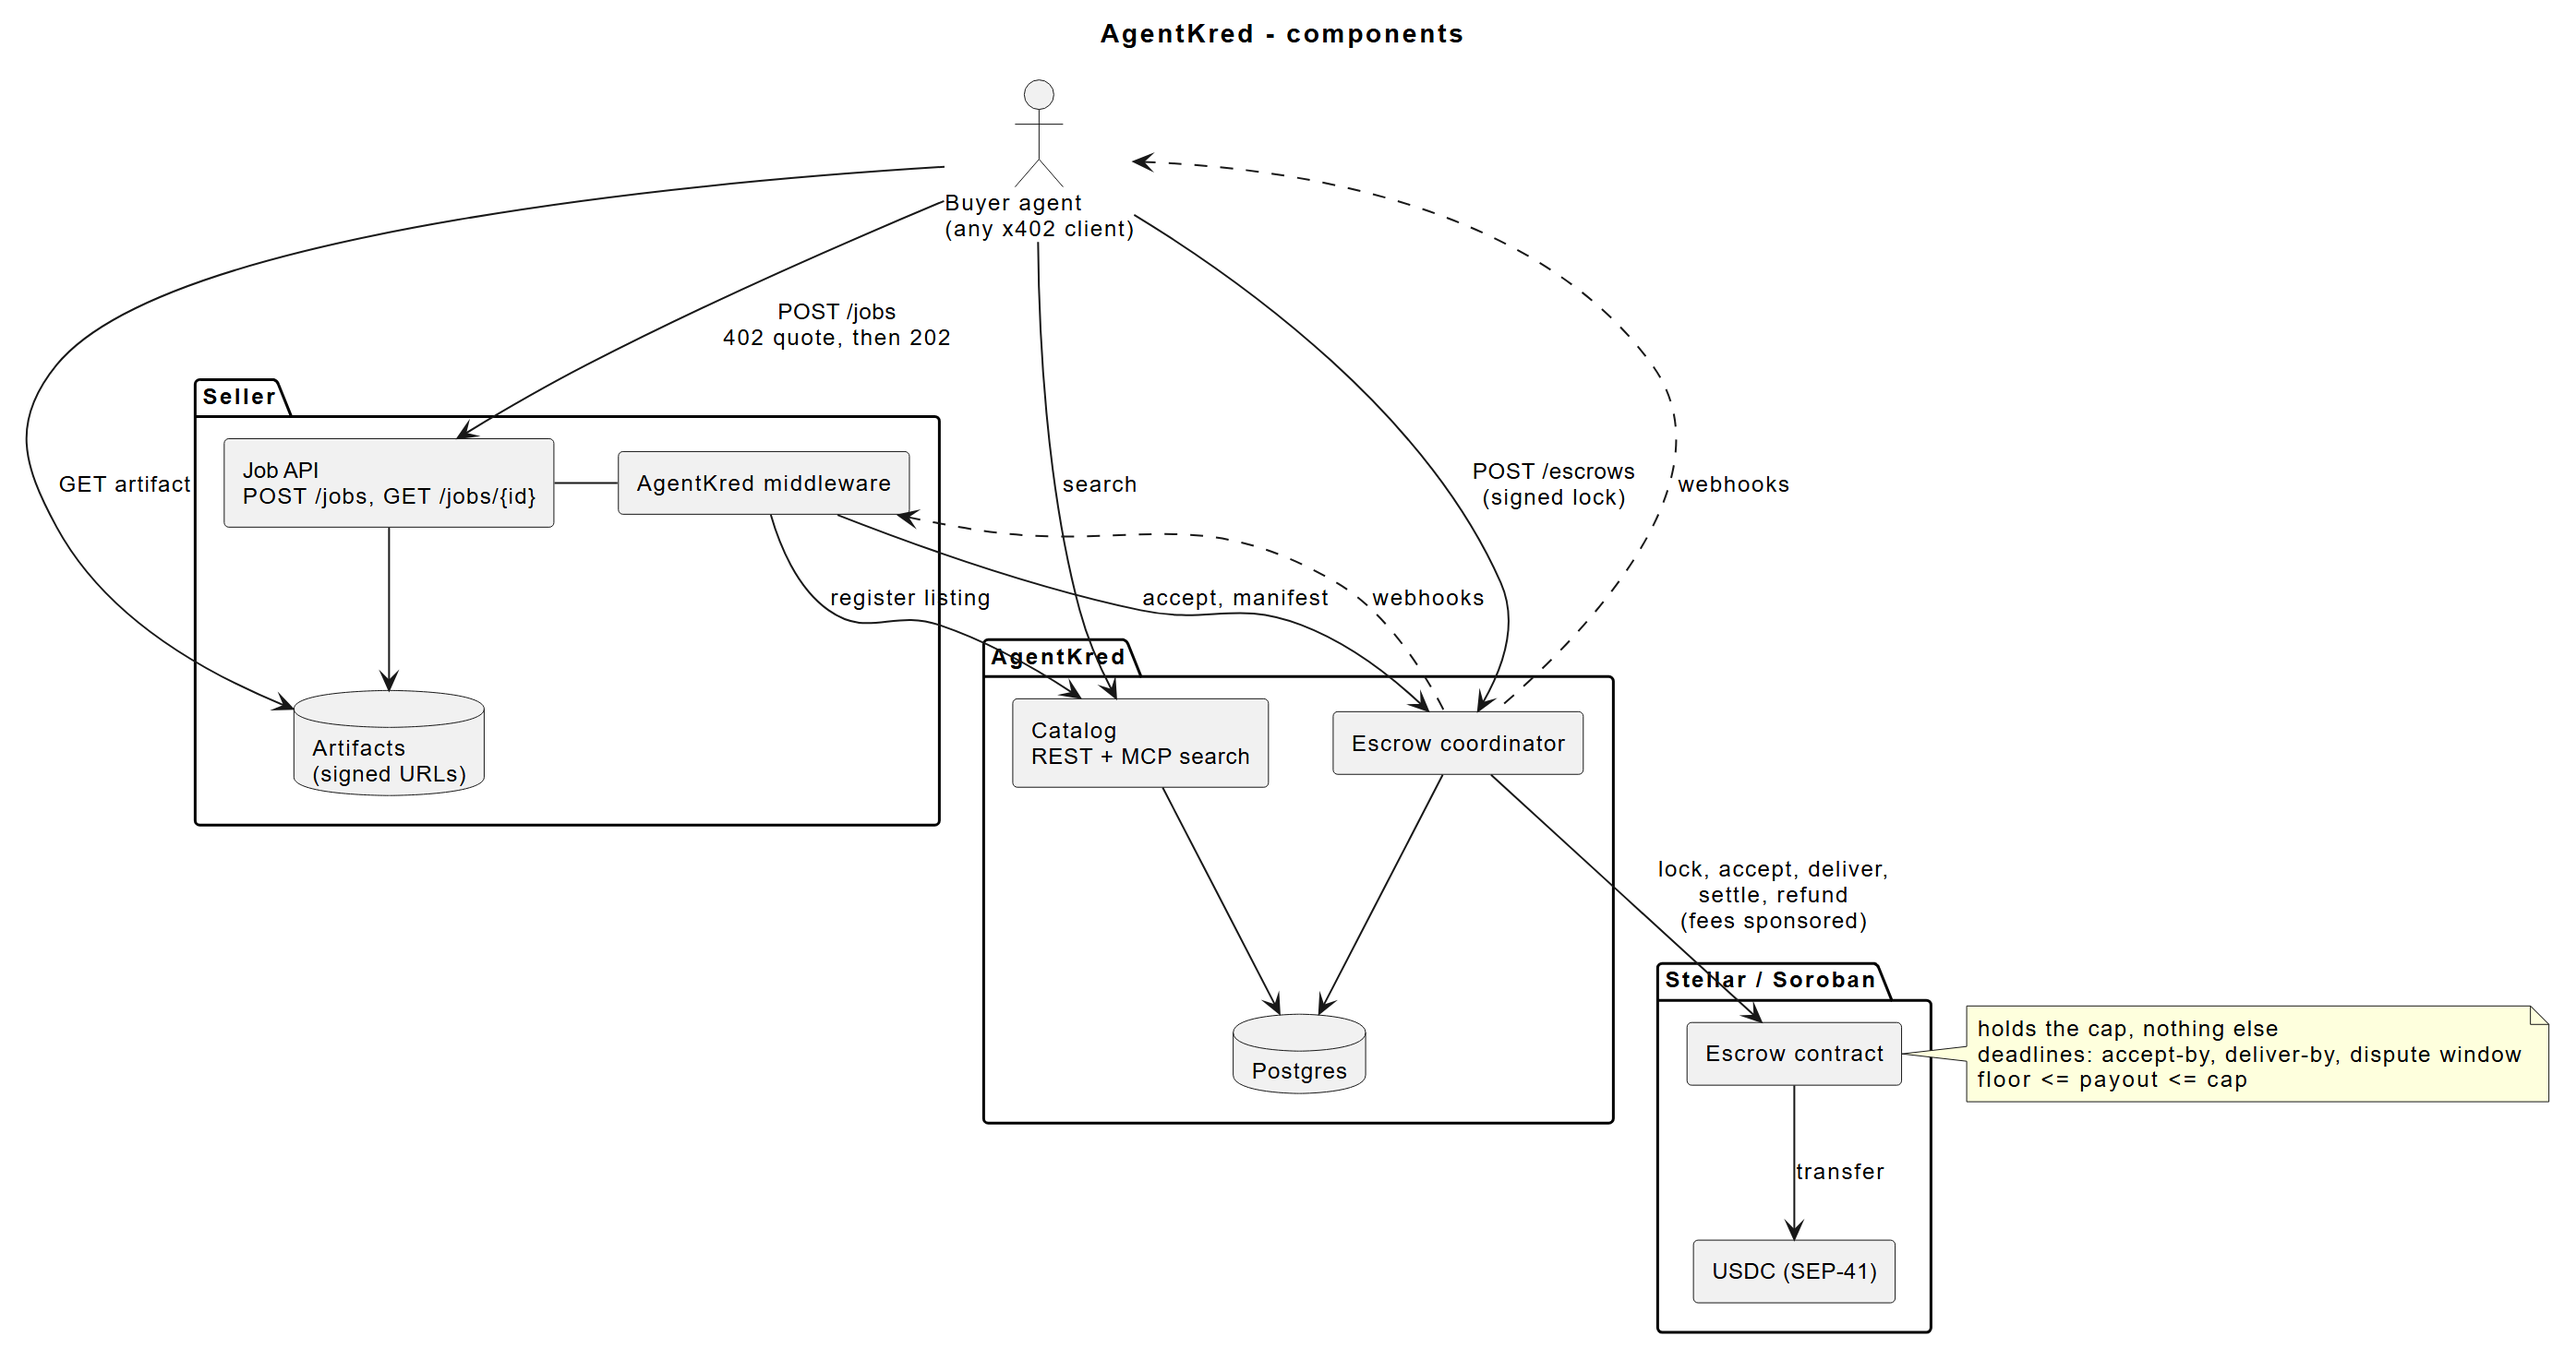
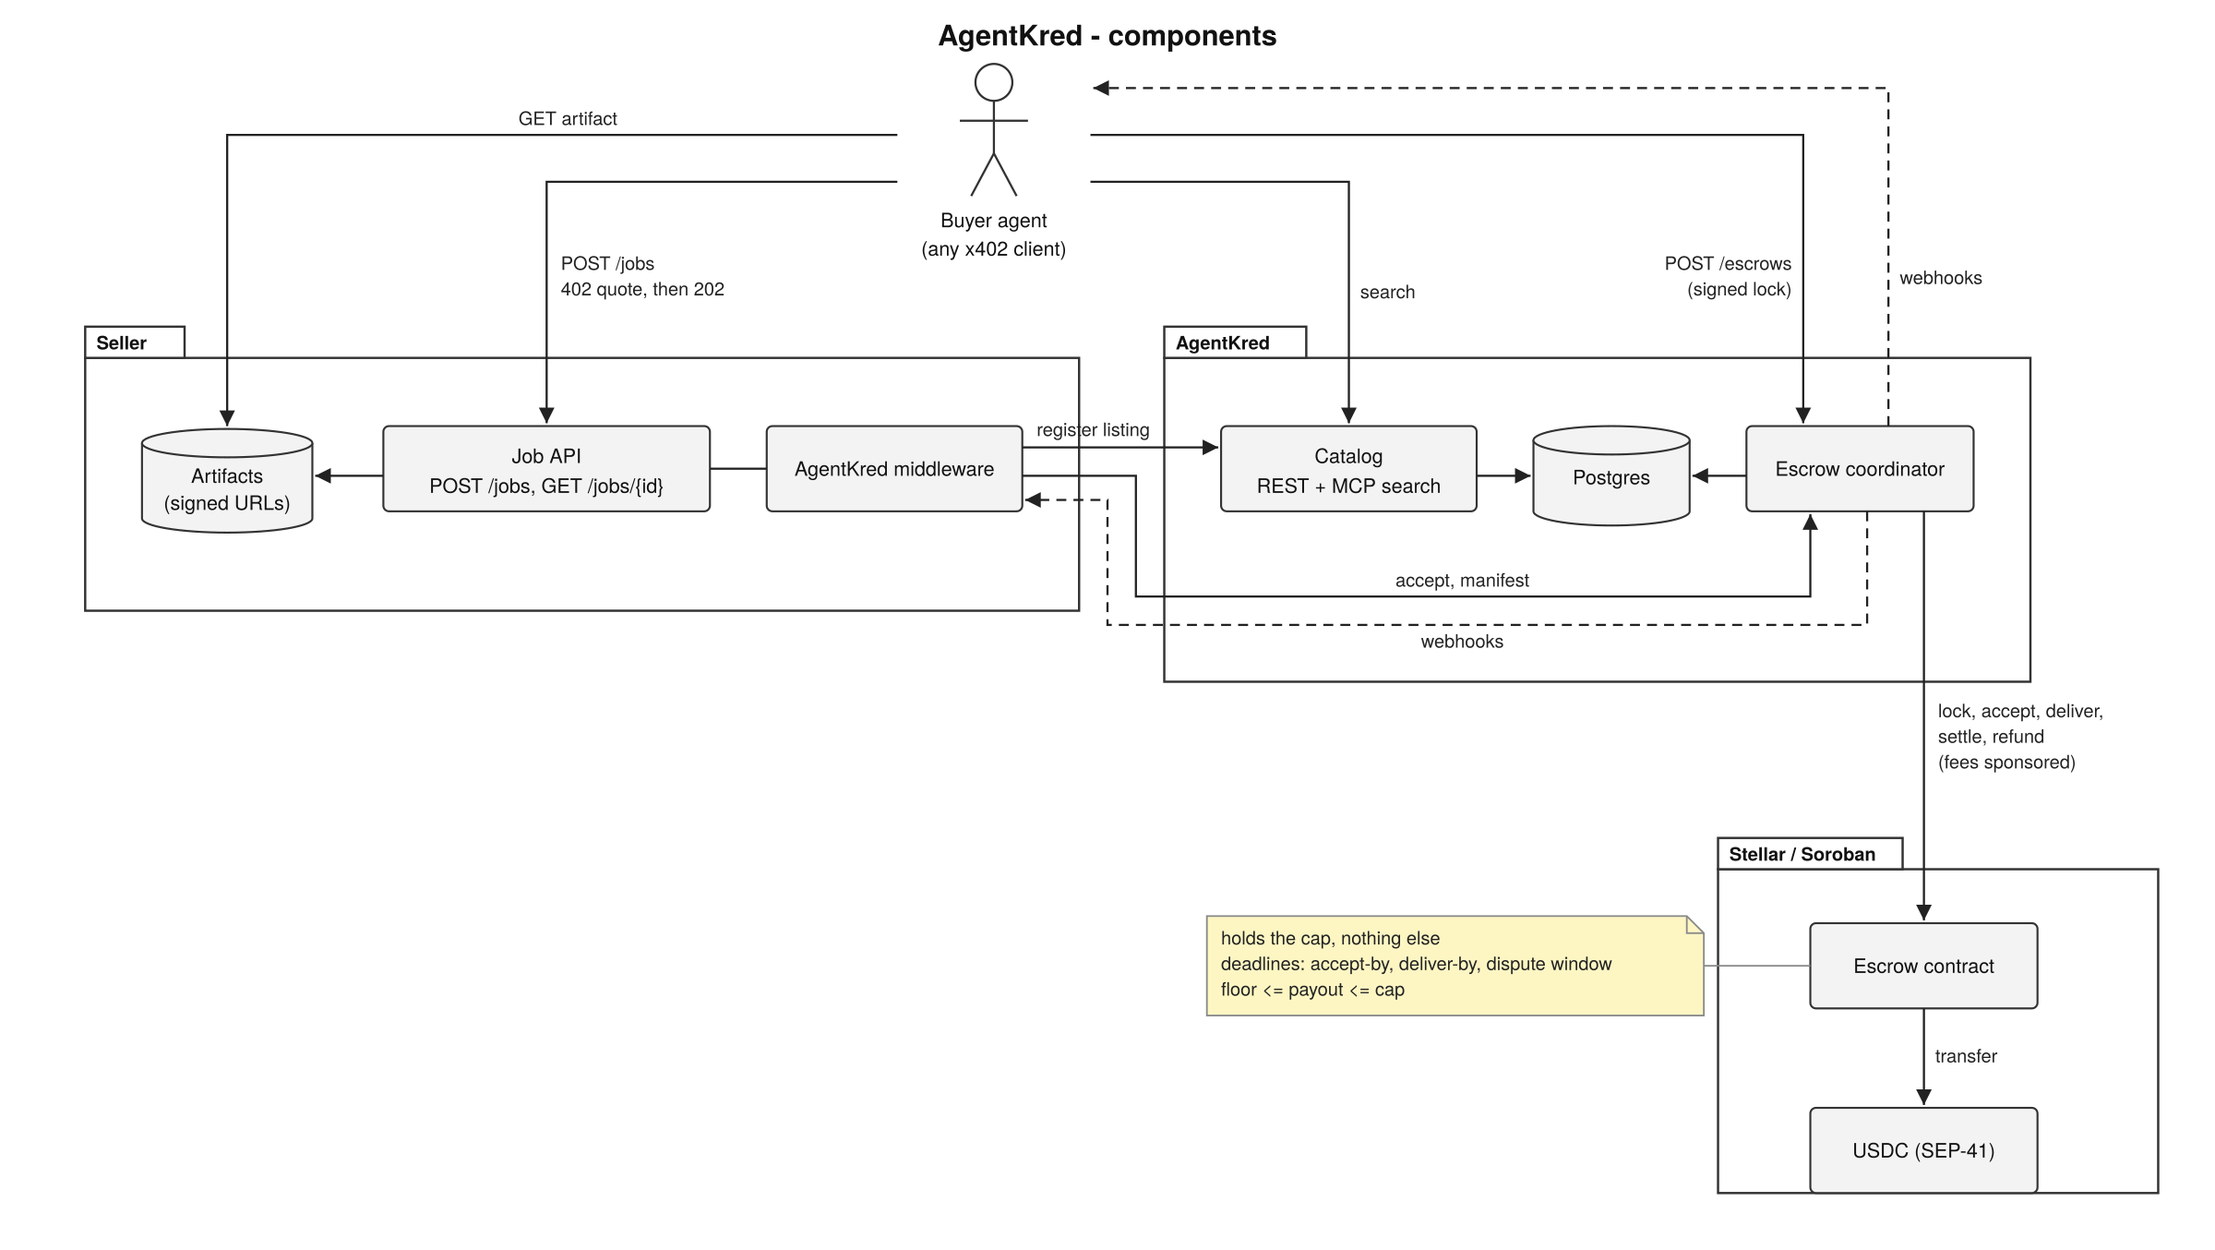
Update README.md

diff --git a/README.md b/README.md
@@ -6,8 +6,8 @@ AgentKred lets agents pay for long-running jobs on Stellar using x402. A buyer l
 
 ![Components](public/agentkred-architecture.png)
 
-- **Escrow contract** (Soroban, Rust): one escrow per job. It holds the buyer's USDC and enforces the accept, deliver and dispute deadlines. It also enforces the payout gate (`floor ≤ payout ≤ cap`). `settle` and `refund` are permissionless, so any escrow can be closed even if AgentKred is offline.
-- **AgentKred service**: a single deployment backed by Postgres. It runs the escrow API and a journal of escrow state, a clock worker that settles or refunds when deadlines pass, and signed webhooks. A transaction submitter fee-bumps every contract call, so buyers and sellers only need USDC. AgentKred never holds a key that can move user funds.
+- **Escrow contract** (Soroban, Rust): one escrow per job. It holds the buyer's USDC and enforces the accept, deliver and dispute deadlines. It also enforces the payout gate (`floor ≤ payout ≤ cap`). `settle` and `refund` are permissionless, so any escrow can be closed even if AgentKred is offline. `lock` extends the escrow's storage TTL past the dispute deadline, so an untouched escrow can't be archived before it closes.
+- **AgentKred service**: a single deployment backed by Postgres, which also hosts the catalog and the record service. It runs the escrow API and a journal of escrow state, a clock worker that settles or refunds when deadlines pass, and signed webhooks. The buyer SDK and seller middleware also call `settle` or `refund` themselves, so the clock worker is a convenience, not a dependency. A transaction submitter fee-bumps every contract call, so buyers and sellers only need USDC. AgentKred never holds a key that can move user funds.
 - **Work records**: built from the contract's settle and refund events and signed by AgentKred. They are served at public URLs and mirrored to the Stellar 8004 reputation registry. Short x402 jobs get records through an adapter that reads the settlement transaction.
 - **Catalog**: a registry of long-running sellers and their escrow terms, ranked by their work records. It's available over REST and MCP.
 - **Seller middleware and buyer SDK** (TypeScript): the seller middleware handles quotes, escrow checks, accept and delivery. The buyer SDK handles quote checks, record checks, the lock, artifact verification, and the acknowledge or dispute step.
